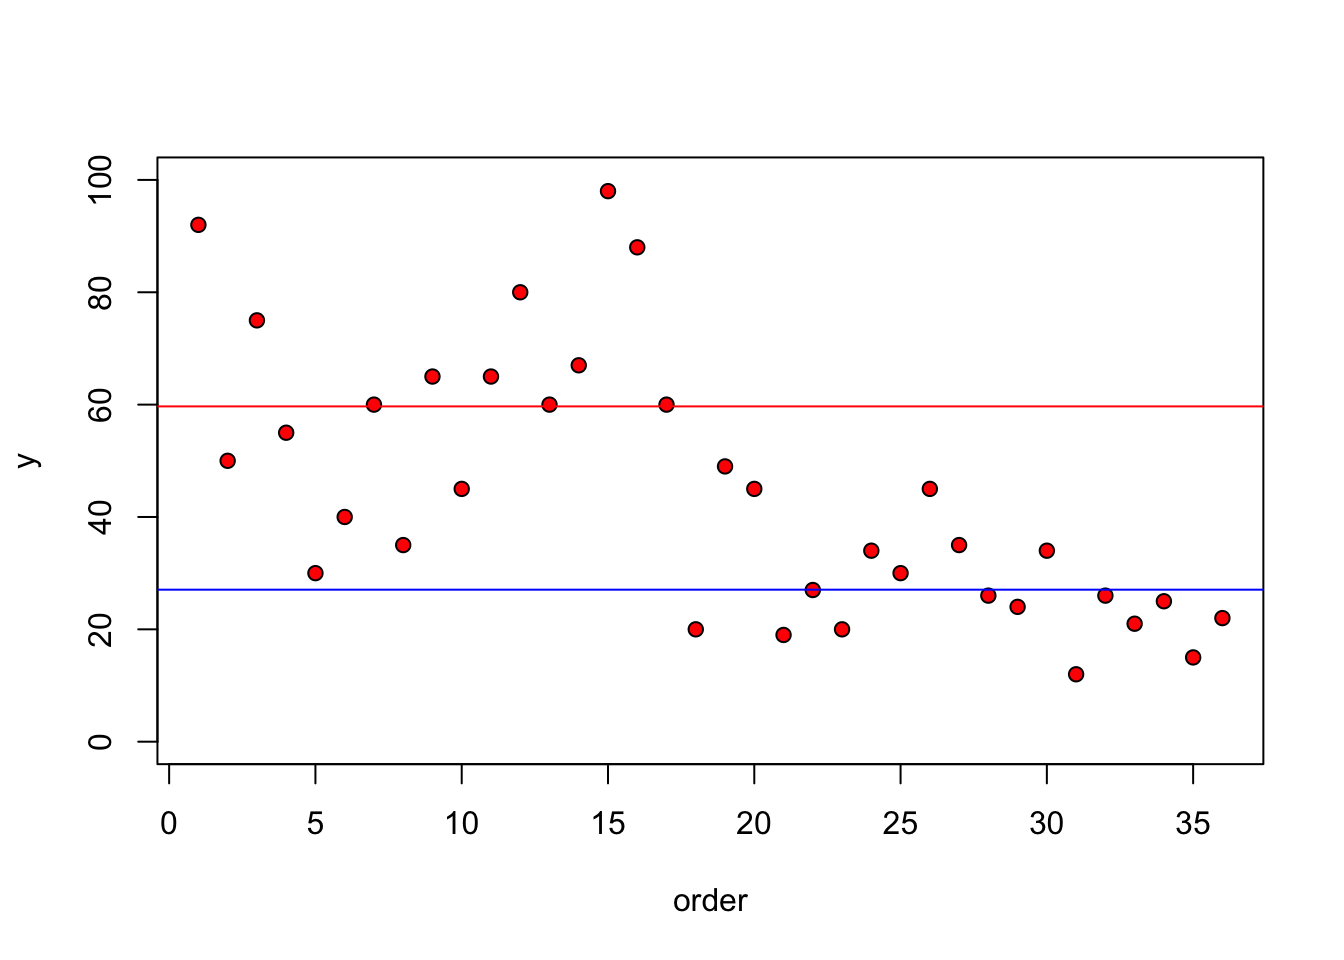
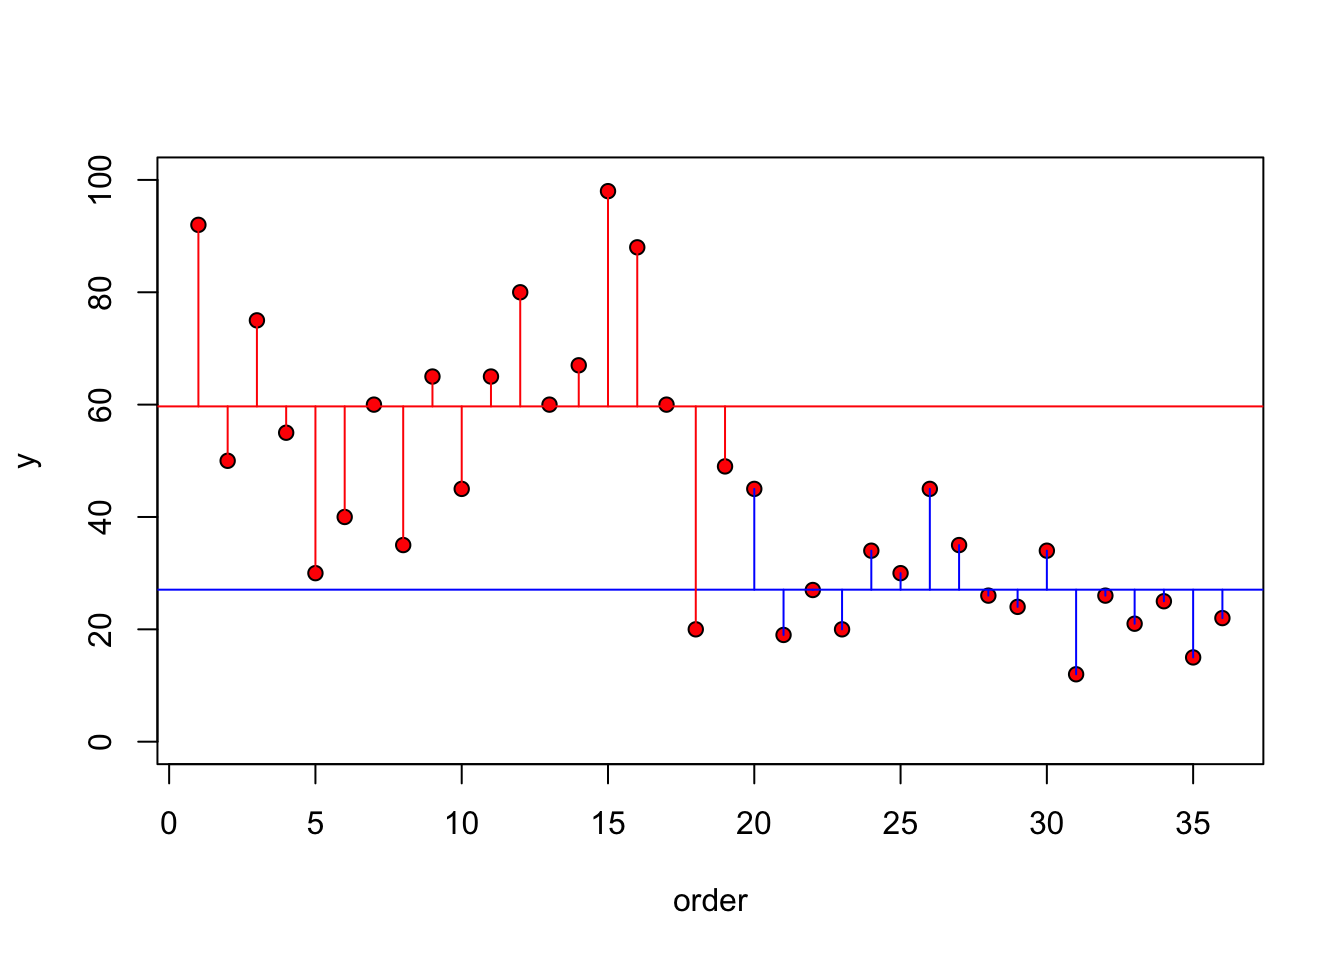
t test

Changed region(s): [[0.6875, 0.5625, 0.7188, 0.5938]]

diff --git a/T10_Pruebas_t_Independiente.html b/T10_Pruebas_t_Independiente.html
@@ -581,7 +581,7 @@ div.tocify {
 
 
 <p>Fecha de la ultima revisión</p>
-<pre><code>## [1] &quot;2020-09-22&quot;</code></pre>
+<pre><code>## [1] &quot;2020-09-24&quot;</code></pre>
 <div class="sourceCode" id="cb2"><pre class="sourceCode r"><code class="sourceCode r"><span id="cb2-1"><a href="#cb2-1"></a><span class="kw">library</span>(car)  <span class="co"># para la prueba de leveneTest</span></span>
 <span id="cb2-2"><a href="#cb2-2"></a></span>
 <span id="cb2-3"><a href="#cb2-3"></a><span class="kw">library</span>(RVAideMemoire) <span class="co"># para la prueba de byf.shapiro</span></span></code></pre></div>
@@ -641,50 +641,59 @@ div.tocify {
 <span id="cb8-4"><a href="#cb8-4"></a><span class="st">  </span><span class="kw">geom_jitter</span>(<span class="dt">width =</span> <span class="fl">0.11</span>)<span class="op">+</span></span>
 <span id="cb8-5"><a href="#cb8-5"></a><span class="st">  </span><span class="kw">geom_hline</span>(<span class="dt">yintercept =</span> mean_dist)</span></code></pre></div>
 <p><img src="T10_Pruebas_t_Independiente_files/figure-html/plot-1.png" width="672" /></p>
+<hr />
 <div id="las-hipótesis" class="section level2">
 <h2>Las hipótesis</h2>
-<blockquote>
-<p>Ho: es que la distancia que viaja de los estudiantes es igual irrelevante del municipio</p>
-</blockquote>
-<blockquote>
-<p>Ho: Promerio_1=Promedio_2 o mejor Ho: <span class="math inline">\(\overline{x}_1=\overline{x}_2\)</span></p>
-</blockquote>
-<blockquote>
-<p>Ha: es que la distancia que viaja de los estudiantes no es igual (depende del municipio donde proviene) Ho: <span class="math inline">\(\overline{x}_1\ne\overline{x}_2\)</span></p>
-</blockquote>
-<p>Otra alternativa de verlo es ver la diferencias entre el valor de la “y” y el promedio, o sea los residuales. <span style="color: blue;">Nota que esto se parece a la grafica de residuales de la regresión lineal</span> .</p>
+<div id="la-nula" class="section level3">
+<h3>La Nula</h3>
+<ul>
+<li>Ho: es que la distancia que viaja de los estudiantes es igual irrelevante del municipio</li>
+<li>Ho: Promerio_1 = Promedio_2 o mejor Ho: <span class="math inline">\(\overline{x}_1=\overline{x}_2\)</span></li>
+</ul>
+</div>
+<div id="la-alterna" class="section level3">
+<h3>La Alterna</h3>
+<ul>
+<li>Ha: es que la distancia que viaja de los estudiantes no es igual (depende del municipio donde proviene)</li>
+<li>Ha: <span class="math inline">\(\overline{x}_1\ne\overline{x}_2\)</span></li>
+</ul>
+<p>Otra alternativa para visualizar es observar la diferencias entre el valor de la “y’s” y del promedio de esa variable, o sea los residuales (la diferencia entre el promedio y el valor se llaman los <strong>residuales</strong>. <span style="color: blue;">Nota que esto aparece a la gráfica de residuales de la regresión lineal</span>.</p>
 <div class="sourceCode" id="cb9"><pre class="sourceCode r"><code class="sourceCode r"><span id="cb9-1"><a href="#cb9-1"></a><span class="kw">plot</span>(<span class="dv">1</span><span class="op">:</span><span class="dv">36</span>, dist, <span class="dt">ylim=</span><span class="kw">c</span>(<span class="dv">0</span>, <span class="dv">100</span>), <span class="dt">ylab=</span><span class="st">&quot;y&quot;</span>, <span class="dt">xlab =</span> <span class="st">&quot;order&quot;</span>, <span class="dt">pch=</span><span class="dv">21</span>, <span class="dt">bg=</span><span class="st">&quot;red&quot;</span>)</span>
 <span id="cb9-2"><a href="#cb9-2"></a><span class="kw">abline</span>(<span class="dt">h=</span><span class="kw">mean</span>(dist), <span class="dt">col=</span><span class="st">&quot;blue&quot;</span>)</span>
 <span id="cb9-3"><a href="#cb9-3"></a><span class="cf">for</span>(i <span class="cf">in</span> <span class="dv">1</span><span class="op">:</span><span class="dv">36</span>) <span class="kw">lines</span>(<span class="kw">c</span>(i,i), <span class="kw">c</span>(<span class="kw">mean</span>(dist), dist[i]), <span class="dt">col=</span><span class="st">&quot;green&quot;</span>)</span></code></pre></div>
 <p><img src="T10_Pruebas_t_Independiente_files/figure-html/unnamed-chunk-6-1.png" width="672" /></p>
-<p>Ahora vamos a separar la grafica y ver los residuales por grupo, en otra palabra, cual son los residuales entre los valores y el promedio dentro de los mismos grupos. Se observa en este caso que hay mucho menos varianza entre los valores de un mismo grupo.</p>
+<p>Ahora vamos a separar la gráfica y visualizar los residuales por grupo, en otra palabra, cual son los residuales entre los valores y el promedio dentro de los mismos grupos. Se observa en este caso que hay mucho menos varianza entre los valores de un mismo grupo. Note que en el grupo de <span style="color: blue;"><strong>bayamón</strong></span> que los valores son bastante cerca del promedio de este grupo en adición que los valores de <span style="color: red;"><strong>utuado</strong></span> estan meas cerca de su promedio. Comparar los residuales con la grafica anterior.</p>
 <div class="sourceCode" id="cb10"><pre class="sourceCode r"><code class="sourceCode r"><span id="cb10-1"><a href="#cb10-1"></a><span class="kw">plot</span>(<span class="dv">1</span><span class="op">:</span><span class="dv">36</span>, dist, <span class="dt">ylim=</span><span class="kw">c</span>(<span class="dv">0</span>, <span class="dv">100</span>), <span class="dt">ylab=</span><span class="st">&quot;y&quot;</span>, <span class="dt">xlab =</span> <span class="st">&quot;order&quot;</span>, <span class="dt">pch=</span><span class="dv">21</span>, <span class="dt">bg=</span><span class="st">&quot;red&quot;</span>)</span>
 <span id="cb10-2"><a href="#cb10-2"></a><span class="kw">abline</span>(<span class="dt">h=</span><span class="kw">mean</span>(dist[muni<span class="op">==</span><span class="st">&quot;bayamón&quot;]), col=&quot;</span>blue<span class="st">&quot;)</span></span>
 <span id="cb10-3"><a href="#cb10-3"></a><span class="st">abline(h=mean(dist[muni==&quot;</span>utuado<span class="st">&quot;]), col=&quot;</span>red<span class="st">&quot;)</span></span>
 <span id="cb10-4"><a href="#cb10-4"></a><span class="st">index&lt;- 1:length(dist)</span></span>
 <span id="cb10-5"><a href="#cb10-5"></a><span class="st">for (i in 1:length(index)){</span></span>
-<span id="cb10-6"><a href="#cb10-6"></a><span class="st">  if(muni[i]==&quot;</span>b<span class="st">&quot;)</span></span>
-<span id="cb10-7"><a href="#cb10-7"></a><span class="st">    lines(c(index[i], index[i]), c(mean(dist[muni==&quot;</span>b<span class="st">&quot;]),dist[i]), col=&quot;</span>blue<span class="st">&quot;)</span></span>
+<span id="cb10-6"><a href="#cb10-6"></a><span class="st">  if(muni[i]==&quot;</span>bayamón&quot;)</span>
+<span id="cb10-7"><a href="#cb10-7"></a>    <span class="kw">lines</span>(<span class="kw">c</span>(index[i], index[i]), <span class="kw">c</span>(<span class="kw">mean</span>(dist[muni<span class="op">==</span><span class="st">&quot;bayamón&quot;]),dist[i]), col=&quot;</span>blue<span class="st">&quot;)</span></span>
 <span id="cb10-8"><a href="#cb10-8"></a><span class="st">  else</span></span>
-<span id="cb10-9"><a href="#cb10-9"></a><span class="st">    lines(c(index[i], index[i]), c(mean(dist[muni==&quot;</span>u<span class="st">&quot;]),dist[i]), col=&quot;</span>red<span class="st">&quot;)</span></span>
+<span id="cb10-9"><a href="#cb10-9"></a><span class="st">    lines(c(index[i], index[i]), c(mean(dist[muni==&quot;</span>utuado<span class="st">&quot;]),dist[i]), col=&quot;</span>red<span class="st">&quot;)</span></span>
 <span id="cb10-10"><a href="#cb10-10"></a><span class="st">}</span></span></code></pre></div>
 <p><img src="T10_Pruebas_t_Independiente_files/figure-html/unnamed-chunk-7-1.png" width="672" /></p>
+<hr />
+</div>
 </div>
 </div>
 <div id="comparación-de-dos-grupos" class="section level1">
-<h1><span style="color: red;">Comparación de dos grupos</span></h1>
-<p>Hay diferentes acercamiento para hacer la prueba de t (t-test). Usaremos la más conocida. Donde comparamos el promedio de un grupo con el proimedio de otro grupo, si no hay diferencias entre los grupos, la diferencias entre uno y el otro deberia acercarce a cero. Hay que tomar en cuenta la cantidad de varianza/error en los analisis. Esto se toma encuenta considerando el error estandard en la formula siguiente.</p>
+<h1>Comparación de dos grupos</h1>
+<p>Hay diferentes acercamiento para hacer la <strong>prueba de t</strong> (t-test). Usaremos la más conocida. Donde comparamos el promedio de un grupo con el promedio de otro grupo, y determinar si no hay diferencias entre los grupos, la diferencias entre uno y el otro debería acercarse a cero si no hay diferencia entre los grupos. Hay que tomar en cuenta la cantidad de varianza/error en los análisis. Esto se toma encenta considerando el error estándar en la formula siguiente.</p>
 <p><span class="math display">\[t= \frac{\bar{X_1}-\bar{X_2}}{SE}\]</span></p>
-<p>Más especifico el error estandard se calcula de la siguiente forma</p>
-<p><span class="math display">\[t= \frac{\bar{X_1}-\bar{X_2}}{\sqrt{\frac{{s}^{2}_p}{n_1}+\frac{{s}^{2}_p}{n_2}}}\]</span></p>
-<p>Donde la varianza ponderada (Weighted variance, <span class="math inline">\({s}^{2}_p\)</span>), es un indice de la varianza de los dos grupos tomando en cuenta el tamaño de muestra de cada grupo. Note que la varianza <span class="math inline">\(s^2\)</span> de cada grupo es multiplicado por (n-1). Por consequencia un grupo que tiene pocos datos “n”, su varianza tendrá menos peso en los analisis.</p>
+<p>Más especifico la estadistica de <strong>t</strong> y el <strong>error estándar</strong> se calcula de la siguiente forma.</p>
+<p><span class="math display">\[t=\frac{\bar{X_1}-\bar{X_2}}{\sqrt{\frac{{s}^{2}_p}{n_1}+\frac{{s}^{2}_p}{n_2}}}\]</span></p>
+<p>Donde la varianza ponderada (Weighted variance, <span class="math inline">\({s}^{2}_p\)</span>), es un indice de la varianza de los dos grupos tomando en cuenta el tamaño de muestra de cada grupo. Note que la varianza <span class="math inline">\(s^2\)</span> de cada grupo es multiplicado por (n-1). Por consecuencia un grupo que tiene pocos datos, “n”, su varianza tendrá menos peso en los análisis.</p>
 <p><span class="math display">\[{s}^{2}_p = \frac{(n_1-1){s}^{2}_1+(n_2-1){s}^{2}_2}{n_1+n_2-2}\]</span></p>
-<div id="mi-primera-prueba-para-comparar-el-promedio-entre-dos-grupos.-se-usa-la-prueba-de-t.test-t-test." class="section level3">
-<h3>Mi primera prueba para comparar el promedio entre dos grupos. Se usa la prueba de “t.test” (t-test).</h3>
-<p>La estructura de la prueba es la siguiente (lo minimo necesario)</p>
+<hr />
+<div id="la-prueba-t" class="section level3">
+<h3>La prueba t</h3>
+<p>Mi primera prueba para comparar el promedio entre dos grupos. Se usa la prueba de “t.test” (t-test).</p>
+<p>La estructura de la prueba es la siguiente (lo mínimo)</p>
 <p>t.test(variable_de_respuesta ~ variable_de_grupo, dataframe)</p>
-<p>La hipotesis nula: Ho: la distancia viajado por la gente de la gente de los dos municipios es igual (el valor de “p” sera major de 0.05)</p>
-<p>La hipotesis alterna: Ha: la distancia viajado por la gente no es igual por la gente d elos dos municipios (el valor de “p” sera menor de 0.05 )</p>
+<p>La hipótesis nula: Ho: la distancia viajado por la gente de la gente de los dos municipios es igual (el valor de “p” sera major de 0.05)</p>
+<p>La hipótesis alterna: Ha: la distancia viajado por la gente no es igual por la gente de los dos municipios (el valor de “p” sera menor de 0.05 )</p>
 <div class="sourceCode" id="cb11"><pre class="sourceCode r"><code class="sourceCode r"><span id="cb11-1"><a href="#cb11-1"></a>model=<span class="kw">t.test</span>(dist<span class="op">~</span>muni,<span class="dt">data=</span>viajes, <span class="dt">paired=</span><span class="ot">FALSE</span>)</span>
 <span id="cb11-2"><a href="#cb11-2"></a>model</span></code></pre></div>
 <pre><code>## 
@@ -698,31 +707,44 @@ div.tocify {
 ## sample estimates:
 ## mean in group bayamón  mean in group utuado 
 ##              27.05882              59.68421</code></pre>
+<hr />
 </div>
-<div id="graficar-los-datos-con-el-promedio-y-las-estadísticas-que-da-un-resumen-de-la-estadistica-de-forma-visual-el-promedio-y-el-intervalo-de-95.-nota-que-se-usa-la-función-en-ggplot2-de-stat_summaryfun.data-mean_cl_normal-esto-quiere-decir-que-se-esta-calculando-los-valores-asumiendo-una-distribución-normal-de-los-datos." class="section level2">
-<h2>Graficar los datos con el promedio y las estadísticas que da un resumen de la estadistica de forma visual, el promedio y el intervalo de 95%. Nota que se usa la función en ggplot2 de stat_summary(fun.data = mean_cl_normal), esto quiere decir que se esta calculando los valores ASUMIENDO una distribución normal de los datos.</h2>
+<div id="gráficar-el-promedio-y-el-intervalo-de-confianza" class="section level2">
+<h2>Gráficar el promedio y el intervalo de confianza</h2>
+<p>Graficar los datos con el promedio y el intervalo de confianza da un resumen de la estadística de forma visual, lo que se visualiza es el promedio y el intervalo de 95%. Nota que se usa la función en ggplot2 de <strong>stat_summary(fun.data = mean_cl_normal)</strong>, esto quiere decir que se esta calculando los valores ASUMIENDO una distribución normal de los datos.</p>
 <div class="sourceCode" id="cb13"><pre class="sourceCode r"><code class="sourceCode r"><span id="cb13-1"><a href="#cb13-1"></a><span class="kw">ggplot</span>(viajes, <span class="kw">aes</span>(muni, dist))<span class="op">+</span></span>
 <span id="cb13-2"><a href="#cb13-2"></a><span class="st"> </span><span class="kw">stat_summary</span>(<span class="dt">fun.data =</span> mean_cl_normal, <span class="dt">geom =</span> <span class="st">&quot;pointrange&quot;</span>)</span></code></pre></div>
 <p><img src="T10_Pruebas_t_Independiente_files/figure-html/graph%20summary%20stats-1.png" width="672" /></p>
+<hr />
 </div>
-<div id="ahora-ver-las-distrubución-de-frecuencia-por-municipio" class="section level2">
-<h2>Ahora ver las distrubución de frecuencia por municipio</h2>
+</div>
+<div id="pruebas-de-normalidades" class="section level1">
+<h1>Pruebas de normalidades</h1>
+<div id="visualización-de-los-datos" class="section level2">
+<h2>Visualización de los datos</h2>
+<p>Siempre se debería producir un gráfico de los datos para tener una idea de si los datos cumple con los supuestos de las pruebas. Ahora ver las distribución de frecuencia por municipio. Si los datos tuviese una distribución <strong>perfecta</strong> normal, se obtendría una distribición en forma de campana. Primero NO se debería esperar este tipo de distribución cuando tenemos pocos datos.</p>
 <div class="sourceCode" id="cb14"><pre class="sourceCode r"><code class="sourceCode r"><span id="cb14-1"><a href="#cb14-1"></a><span class="kw">ggplot</span>(viajes, <span class="kw">aes</span>(dist, <span class="dt">fill=</span>muni))<span class="op">+</span></span>
 <span id="cb14-2"><a href="#cb14-2"></a><span class="st">  </span><span class="kw">geom_histogram</span>(<span class="dt">colour=</span><span class="st">&quot;white&quot;</span>)<span class="op">+</span></span>
 <span id="cb14-3"><a href="#cb14-3"></a><span class="st">  </span><span class="kw">facet_grid</span>(<span class="op">~</span>muni)</span></code></pre></div>
 <p><img src="T10_Pruebas_t_Independiente_files/figure-html/unnamed-chunk-8-1.png" width="672" /></p>
+<hr />
 </div>
-</div>
-<div id="shapito-wilks-test-for-the-assumption-of-normality" class="section level1">
-<h1>Shapito-Wilks: Test for the assumption of normality</h1>
+<div id="shapiro-wilks-prueba-de-normalidad" class="section level2">
+<h2>Shapiro-Wilks: Prueba de normalidad</h2>
+<p>La prueba de Shapiro-Wilks fue publicado por Sanuel S. Shapiro and Martin Wilk en 1965. La prueba de Shapiro_Wilks es una prueba para determinar si lo datos <strong>provienen</strong> de una distribución normal. La hipótesis NULA es que los datos provienen de una distribución normal, por consecuencia cuando uno acepta la hipótesis nula (p &gt; 0.05) es que <strong>no hay evidencia de sugerir que los datos no provienen de una distribución normal</strong>. Es solamente cuando el valor de p es menor de 0.05 que uno rechaza la hipótesis y hay evidencia que los datos no provienen de una distribución normal.</p>
+<p>Problema con la prueba cuando la muestra es grande</p>
+<p>Es típico que cuando uno tiene muchos muchos datos uno puede encontrar diferencias significativas entres los grupos, en este caso cuando hay muchos datos la prueba pudiese sugerir que los datos no tienen distribución normal cuando en realidad se esta detectando diferenciales triviales. En la prueba abajo se sugiere de NO utilizarla si tiene mayor de 2000 datos. Al contrario cuando tenga muy pocos datos (n&lt;50) no se debería usar la prueba de Shapiro-Wilks.</p>
+<div id="evaluar-la" class="section level3">
+<h3>Evaluar la</h3>
 <div class="sourceCode" id="cb15"><pre class="sourceCode r"><code class="sourceCode r"><span id="cb15-1"><a href="#cb15-1"></a><span class="kw">shapiro.test</span>(viajes<span class="op">$</span>dist)</span></code></pre></div>
 <pre><code>## 
 ##  Shapiro-Wilk normality test
 ## 
 ## data:  viajes$dist
 ## W = 0.92929, p-value = 0.02381</code></pre>
-<div id="metodo-1-shapiro.test" class="section level2">
-<h2>Metodo #1: shapiro.test()</h2>
+</div>
+<div id="metodo-1-shapiro.test" class="section level3">
+<h3>Metodo #1: shapiro.test()</h3>
 <div class="sourceCode" id="cb17"><pre class="sourceCode r"><code class="sourceCode r"><span id="cb17-1"><a href="#cb17-1"></a><span class="co"># Normality test by group</span></span>
 <span id="cb17-2"><a href="#cb17-2"></a><span class="co"># Method 1 </span></span>
 <span id="cb17-3"><a href="#cb17-3"></a><span class="kw">shapiro.test</span>(viajes<span class="op">$</span>dist)</span></code></pre></div>
@@ -744,8 +766,8 @@ div.tocify {
 ## data:  viajes$dist[viajes$muni == &quot;bayamón&quot;]
 ## W = 0.95093, p-value = 0.4713</code></pre>
 </div>
-<div id="method-2-byf.shapiro" class="section level2">
-<h2>Method 2: byf.shapiro()</h2>
+<div id="method-2-byf.shapiro" class="section level3">
+<h3>Method 2: byf.shapiro()</h3>
 <p>Aqui es una prueba más sensilla para hacer para comprobar que los grupos tienen distribución normal. <span style="color: red;">Tiene que usar la libreria ‘RVAideMemoire’ y la función byf.shapiro( )</span> .</p>
 <p>Recuerda, que si el valor de p es mayor de 0.05, se asume que los datos tienen una distribución normal, si es menor de 0.05 se asume que no es normal.</p>
 <p>Nota la oragnización de la prueba, es como la de la t.test( )</p>
@@ -761,9 +783,12 @@ div.tocify {
 ##              W p-value
 ## bayamón 0.9509  0.4713
 ## utuado  0.9841  0.9790</code></pre>
+<hr />
 </div>
-<div id="prueba-de-igualdad-de-varianza" class="section level2">
-<h2>Prueba de Igualdad de Varianza</h2>
+</div>
+</div>
+<div id="prueba-de-igualdad-de-varianza" class="section level1">
+<h1>Prueba de Igualdad de Varianza</h1>
 <p><a href="http://www.cookbook-r.com/Statistical_analysis/Homogeneity_of_variance/" class="uri">http://www.cookbook-r.com/Statistical_analysis/Homogeneity_of_variance/</a></p>
 <p>Presento 3 alternativas para la prueba de igualdad de varianza.</p>
 <p>Las pruebas siguientes tambiens se llaman pruebas de homoscedasticidad de varianza, o sea que la varianza en los diferentes grupos es igual. por consecuencia la hipotesis nnula es que la varianza del primer grupo es igual a la varianza del segundo grupo (para una prueba t). Nota aqui es es importante donde se encuenta el promedio o la mediana, lo que es importante es la distribución de los datos.</p>
@@ -776,9 +801,8 @@ div.tocify {
 <li>Levene’s Test for equality of variance La prueba de Levene los datos no son tan sensitivo a la distribución normal, pero no deberia tampoco ser muy diferente de ella.</li>
 <li>Fligner-Killeen Test for equality of Variance La prueba de Fligner-Killeen los datos NO tiene que cumplir con distribición normal y es una prueba robusta cuando hay datos sesgados (outliers).</li>
 </ol>
-</div>
-<div id="bartletts-test-of-equality-of-variance" class="section level2">
-<h2>Bartlett’s test of equality of variance</h2>
+<div id="la-prueba-de-bartlett" class="section level2">
+<h2>La prueba de Bartlett</h2>
 <div class="sourceCode" id="cb25"><pre class="sourceCode r"><code class="sourceCode r"><span id="cb25-1"><a href="#cb25-1"></a><span class="kw">bartlett.test</span>(dist<span class="op">~</span>muni, <span class="dt">data=</span>viajes)</span></code></pre></div>
 <pre><code>## 
 ##  Bartlett test of homogeneity of variances
@@ -786,8 +810,8 @@ div.tocify {
 ## data:  dist by muni
 ## Bartlett&#39;s K-squared = 9.7164, df = 1, p-value = 0.001826</code></pre>
 </div>
-<div id="levene-test-for-equality-of-variance" class="section level2">
-<h2>Levene Test for equality of variance</h2>
+<div id="prueba-de-levene-para-igualdad-de-varianza" class="section level2">
+<h2>Prueba de Levene para igualdad de Varianza</h2>
 <ul>
 <li>similar to Bartlett’s test</li>
 </ul>
@@ -799,8 +823,8 @@ div.tocify {
 ## ---
 ## Signif. codes:  0 &#39;***&#39; 0.001 &#39;**&#39; 0.01 &#39;*&#39; 0.05 &#39;.&#39; 0.1 &#39; &#39; 1</code></pre>
 </div>
-<div id="fligner-killeen-test-for-equality-of-variance" class="section level2">
-<h2>Fligner-Killeen Test for equality of Variance</h2>
+<div id="prueba-de-fligner-killeen-para-igualdad-de-varianza" class="section level2">
+<h2>Prueba de Fligner-Killeen para igualdad de Varianza</h2>
 <ul>
 <li>good when the distribution are not normal</li>
 </ul>
@@ -810,6 +834,9 @@ div.tocify {
 ## 
 ## data:  dist by muni
 ## Fligner-Killeen:med chi-squared = 5.6373, df = 1, p-value = 0.01758</code></pre>
+<ol style="list-style-type: decimal">
+<li>Ejercicio</li>
+</ol>
 <div class="sourceCode" id="cb31"><pre class="sourceCode r"><code class="sourceCode r"><span id="cb31-1"><a href="#cb31-1"></a>sex=<span class="kw">c</span>(<span class="st">&quot;f&quot;</span>,<span class="st">&quot;f&quot;</span>,<span class="st">&quot;f&quot;</span>,<span class="st">&quot;f&quot;</span>,<span class="st">&quot;f&quot;</span>,</span>
 <span id="cb31-2"><a href="#cb31-2"></a>      <span class="st">&quot;f&quot;</span>,<span class="st">&quot;f&quot;</span>,<span class="st">&quot;f&quot;</span>,<span class="st">&quot;f&quot;</span>,<span class="st">&quot;f&quot;</span>,</span>
 <span id="cb31-3"><a href="#cb31-3"></a>      <span class="st">&quot;f&quot;</span>,</span>
